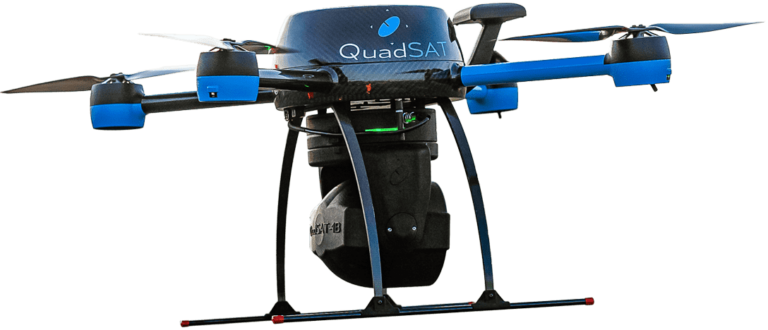
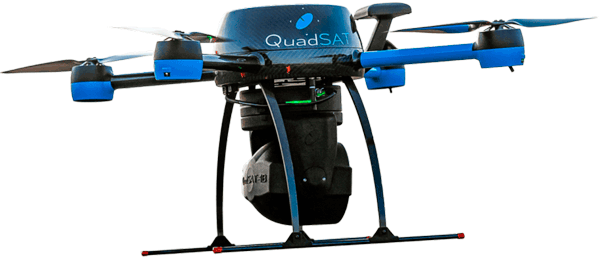
optimering af billeder

diff --git a/QuadSAT-prototype/about.html b/QuadSAT-prototype/about.html
@@ -46,12 +46,12 @@
   <!-- Top Navigation Menu -->
   <div class="topnav">
     <a href="index.html" class="active"> <img src="img/QuadSAT-logo.png" alt="logo" class="logo"> </a>
-    <div id="myLinks">
+    <div id="menupunkter">
       <a href="faq.html">FAQ</a>
       <a href="contact.html">Contact</a>
       <a href="about.html">About</a>
     </div>
-    <a href="javascript:void(0);" class="burger-icon" onclick="myFunction()">
+    <a href="javascript:void(0);" class="burger-icon" onclick="burgermenu()">
       <i class="fa fa-bars"></i>
     </a>
   </div>
@@ -71,7 +71,7 @@
         QuadSAT’s system combines advanced drone technology with a custom RF pointing payload.
         As a compact system, it is transported directly to site and when launched as a mission it will provide customers with insitu testing capabilities,
         resulting in a cost-effective, operationally flexible, and timesaving solution.</p>
-      <img class="about-img" src="img/about.png" alt="The QuadSAT team">
+      <img class="about-img" src="img/about.jpg" alt="The QuadSAT team">
     </div>
   </main>
 

diff --git a/QuadSAT-prototype/index.html b/QuadSAT-prototype/index.html
@@ -47,14 +47,16 @@
   <!-- Top Navigation Menu -->
   <div class="topnav">
     <a href="index.html" class="active" style="background-color: #f2f3f7;"> <img src="img/QuadSAT-logo.png" alt="logo" class="logo"> </a>
-    <div id="myLinks">
+    <div id="menupunkter">
       <a href="faq.html">FAQ</a>
       <a href="contact.html">Contact</a>
       <a href="about.html">About</a>
     </div>
-    <a href="javascript:void(0);" class="burger-icon" onclick="myFunction()" style="background-color: #f2f3f7;">
+
+    <a href="javascript:void(0);" class="burger-icon" onclick="burgermenu()" style="background-color: #f2f3f7;">
       <i class="fa fa-bars"></i>
     </a>
+
   </div>
 
   <div class="mobile-text">

diff --git a/QuadSAT-prototype/contact.html b/QuadSAT-prototype/contact.html
@@ -47,12 +47,12 @@
   <!-- Top Navigation Menu -->
   <div class="topnav">
     <a href="index.html" class="active"> <img src="img/QuadSAT-logo.png" alt="logo" class="logo"> </a>
-    <div id="myLinks">
+    <div id="menupunkter">
       <a href="faq.html">FAQ</a>
       <a href="contact.html">Contact</a>
       <a href="about.html">About</a>
     </div>
-    <a href="javascript:void(0);" class="burger-icon" onclick="myFunction()">
+    <a href="javascript:void(0);" class="burger-icon" onclick="burgermenu()">
       <i class="fa fa-bars"></i>
     </a>
   </div>

diff --git a/QuadSAT-prototype/faq.html b/QuadSAT-prototype/faq.html
@@ -47,12 +47,12 @@
   <!-- Top Navigation Menu -->
   <div class="topnav">
     <a href="index.html" class="active"> <img src="img/QuadSAT-logo.png" alt="logo" class="logo"> </a>
-    <div id="myLinks">
+    <div id="menupunkter">
       <a href="faq.html">FAQ</a>
       <a href="contact.html">Contact</a>
       <a href="about.html">About</a>
     </div>
-    <a href="javascript:void(0);" class="burger-icon" onclick="myFunction()">
+    <a href="javascript:void(0);" class="burger-icon" onclick="burgermenu()">
       <i class="fa fa-bars"></i>
     </a>
   </div>

diff --git a/QuadSAT-prototype/style/style.css b/QuadSAT-prototype/style/style.css
@@ -100,7 +100,7 @@ li .nav-item{
   position: fixed;
 }
 
-.topnav #myLinks {
+.topnav #menupunkter {
   display: none;
   font-family: Oswald;
 }
@@ -144,7 +144,7 @@ li .nav-item{
 
 .hero-img{
   height: 100vh;
-  background-image:url("../img/hero.png");
+  background-image:url("../img/hero.jpg");
   width:100%;
   background-size: cover;
 }
@@ -188,7 +188,7 @@ main {
 }
 
 .picture-seven{
-  background-image:url("../img/software.png");
+  background-image:url("../img/software.jpg");
   background-size: cover;
 }
 

diff --git a/QuadSAT-prototype/script.js b/QuadSAT-prototype/script.js
@@ -1,15 +1,14 @@
-function myFunction() {
-  var x = document.getElementById("myLinks");
+
+// Emma JavaScript//
+
+function burgermenu() {
+  var x = document.getElementById("menupunkter");
   if (x.style.display === "block") {
     x.style.display = "none";
   } else {
     x.style.display = "block";
   }
 }
-
-
-
-
 
 
 
